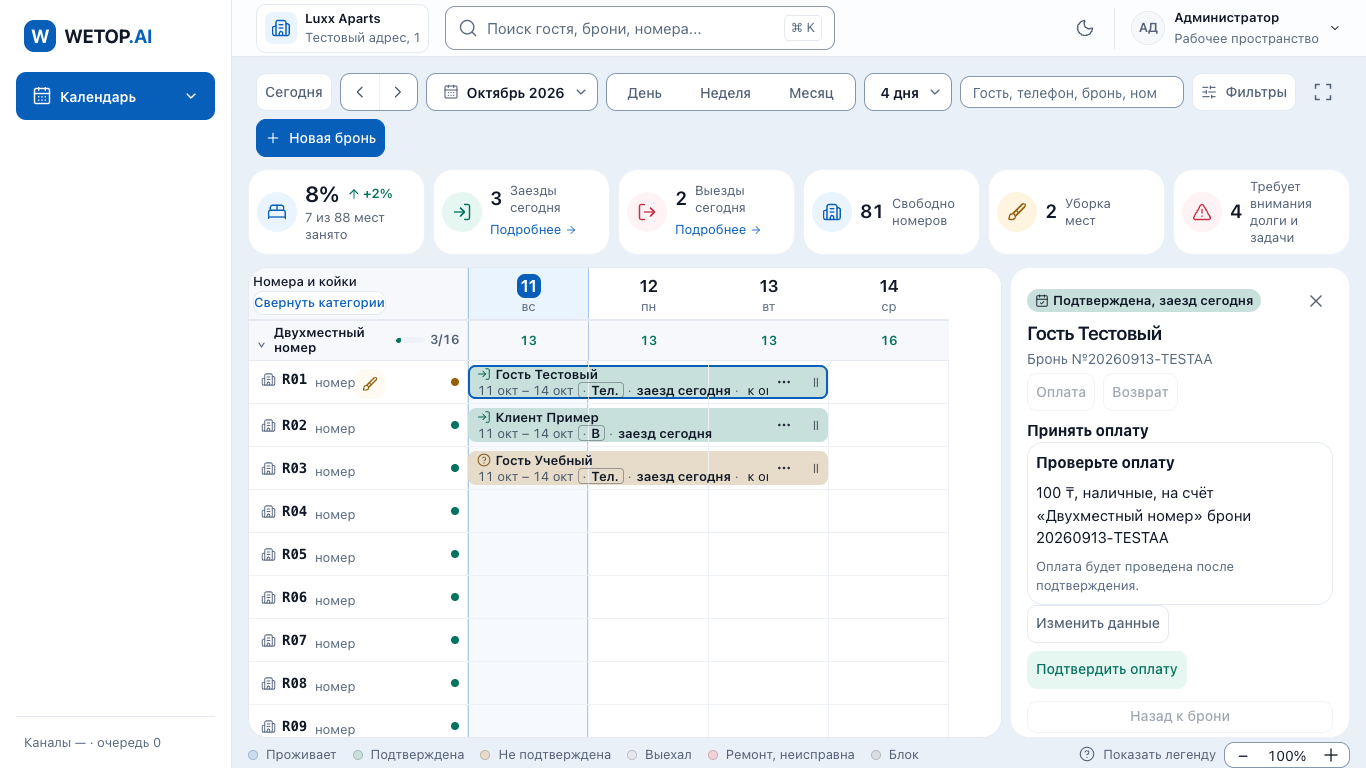
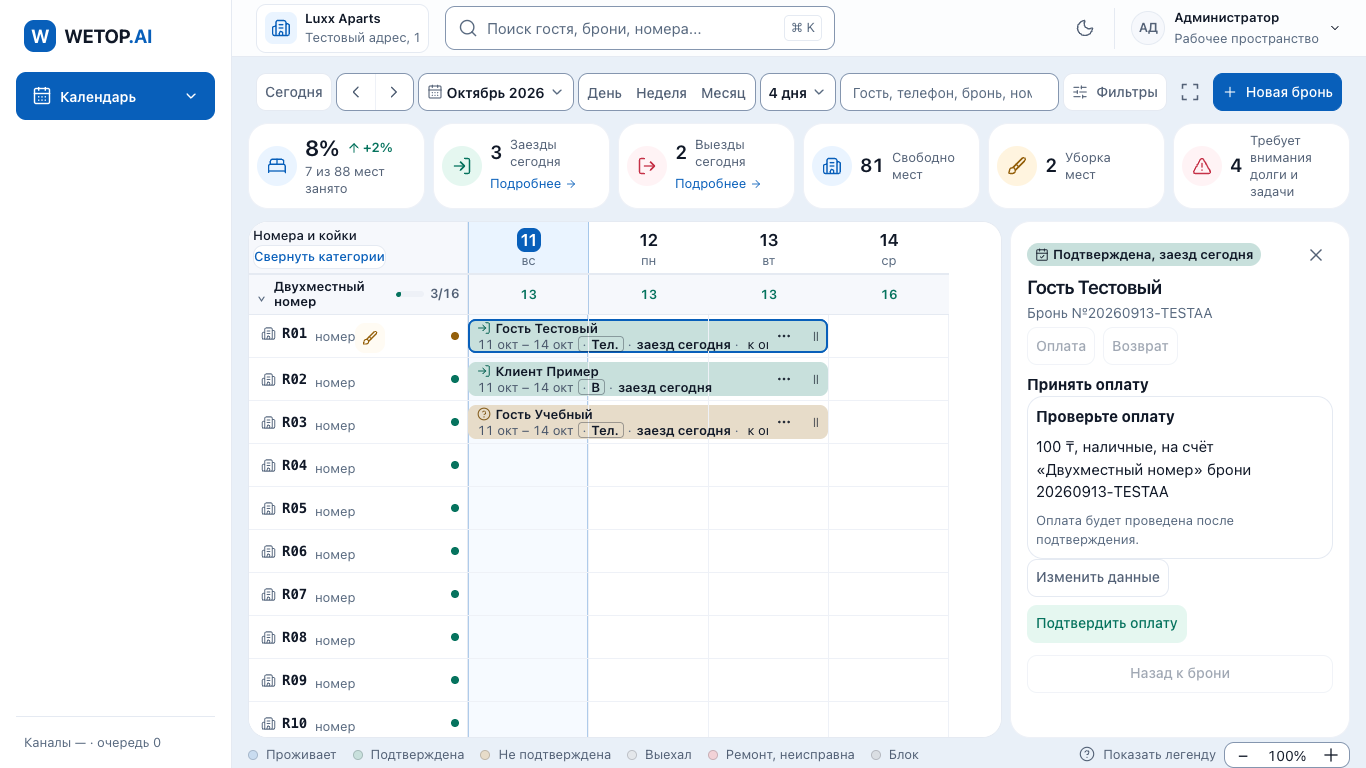
fix(calendar): fit notebook controls and month and verify confirmations

diff --git a/tests/ui/booking-price-nights.spec.ts b/tests/ui/booking-price-nights.spec.ts
@@ -25,37 +25,41 @@ test('форма брони: детализация цены по дням, су
   await expect(form.getByTestId('price-by-night-sum')).toContainText('средняя стоимость ночи');
 });
 
-test('календарь: одна полоса управления и шесть карточек под ней, сетка начинается выше', async ({
-  page,
-}) => {
-  await page.setViewportSize({ width: 1440, height: 900 });
-  await page.goto('/chessboard');
-  const panel = page.getByRole('group', { name: 'Сегодня на объекте' });
-  await expect(panel).toBeVisible();
-  const p = (await panel.boundingBox())!;
-  const bar = (await page.locator('.board-toolbar').boundingBox())!;
-  const grid = (await page.locator('.board-wrap').boundingBox())!;
-  // образец владельца (09.10): полоса «Сегодня ‹ › период масштаб длина поиск Фильтры Новая бронь» одной
-  // строкой, под ней шесть карточек в один ряд, затем сетка
-  expect(bar.height).toBeLessThanOrEqual(56);
-  expect(bar.y + bar.height).toBeLessThanOrEqual(p.y + 1);
-  expect(p.height).toBeLessThanOrEqual(96);
-  expect(p.y + p.height).toBeLessThanOrEqual(grid.y + 1);
-  expect(grid.y).toBeLessThanOrEqual(260);
-  const tops = await panel
-    .locator('.board-kpi')
-    .evaluateAll((els) => els.map((e) => Math.round(e.getBoundingClientRect().top)));
-  expect(tops).toHaveLength(6);
-  expect(new Set(tops).size).toBe(1);
-  // все шесть элементов полосы на одной линии
-  const barTops = await page
-    .locator('.board-toolbar')
-    .locator(
-      ':scope > .board-nav > *, :scope > .board-search, :scope > .board-filters-open, :scope > .board-new',
-    )
-    .evaluateAll((els) => els.map((e) => Math.round(e.getBoundingClientRect().top / 8)));
-  expect(new Set(barTops).size).toBe(1);
-  await expect(panel.getByTestId('day-free')).toBeVisible();
-  await expect(panel.getByTestId('day-units')).toHaveCount(0);
-  await page.screenshot({ path: 'reports/calendar-2026-10-02/header-compact-1440.png' });
-});
+for (const width of [1280, 1366, 1440]) {
+  test(`календарь ${width}px: одна полоса управления и шесть карточек под ней, сетка начинается выше`, async ({
+    page,
+  }) => {
+    await page.setViewportSize({ width, height: 900 });
+    await page.goto('/chessboard');
+    const panel = page.getByRole('group', { name: 'Сегодня на объекте' });
+    await expect(panel).toBeVisible();
+    const p = (await panel.boundingBox())!;
+    const bar = (await page.locator('.board-toolbar').boundingBox())!;
+    const grid = (await page.locator('.board-wrap').boundingBox())!;
+    // образец владельца (09.10): полоса «Сегодня ‹ › период масштаб длина поиск Фильтры Новая бронь» одной
+    // строкой, под ней шесть карточек в один ряд, затем сетка
+    expect(bar.height).toBeLessThanOrEqual(56);
+    expect(bar.y + bar.height).toBeLessThanOrEqual(p.y + 1);
+    expect(p.height).toBeLessThanOrEqual(96);
+    expect(p.y + p.height).toBeLessThanOrEqual(grid.y + 1);
+    expect(grid.y).toBeLessThanOrEqual(260);
+    const tops = await panel
+      .locator('.board-kpi')
+      .evaluateAll((els) => els.map((e) => Math.round(e.getBoundingClientRect().top)));
+    expect(tops).toHaveLength(6);
+    expect(new Set(tops).size).toBe(1);
+    // все шесть элементов полосы на одной линии
+    const barTops = await page
+      .locator('.board-toolbar')
+      .locator(
+        ':scope > .board-nav > *, :scope > .board-search, :scope > .board-filters-open, :scope > .board-new',
+      )
+      .evaluateAll((els) => els.map((e) => Math.round(e.getBoundingClientRect().top / 8)));
+    expect(new Set(barTops).size).toBe(1);
+    await expect(panel.getByTestId('day-free')).toBeVisible();
+    await expect(panel.getByTestId('day-units')).toHaveCount(0);
+    await page.screenshot({
+      path: `reports/calendar-confirmations-2026-10-08/header-${width}.png`,
+    });
+  });
+}

diff --git a/tests/ui/owner-dashboard-interactions.spec.ts b/tests/ui/owner-dashboard-interactions.spec.ts
@@ -65,20 +65,26 @@ test('slow inventory keeps daily events usable and shows a stable loading card',
 }) => {
   await page.setViewportSize({ width: 390, height: 844 });
   await page.goto('/finance');
-  const ready = await page
-    .getByRole('region', { name: 'Загрузка и операционные показатели' })
-    .boundingBox();
+  const readyCard = page.getByRole('region', { name: 'Загрузка и операционные показатели' });
+  await expect(readyCard).toBeVisible();
+  const ready = await readyCard.boundingBox();
   await request.post(`${FIXTURE_API}/__test/control`, {
     data: { delayPath: '/chessboard', delayMs: 6000 },
   });
   await page.goto('/finance', { waitUntil: 'commit' });
+  await expect(page.getByTestId('owner-dashboard')).toBeVisible();
   const loading = page.getByRole('status', { name: 'Загружаем загрузку…', exact: true });
   await expect(loading).toBeVisible({ timeout: 2000 });
   // слот карточки измеряем сам по себе: заглушку может успеть сменить настоящая карточка
-  const slot = page.locator('.owner-load').first();
-  await expect.poll(async () => (await slot.boundingBox())?.height ?? null).not.toBeNull();
-  const box = await slot.boundingBox();
-  expect(Math.abs(box!.height - ready!.height)).toBeLessThan(24);
+  const slot = page.locator('.owner-load:visible').first();
+  let loadingHeight: number | null = null;
+  await expect
+    .poll(async () => {
+      loadingHeight = (await slot.boundingBox())?.height ?? null;
+      return loadingHeight;
+    })
+    .not.toBeNull();
+  expect(Math.abs(loadingHeight! - ready!.height)).toBeLessThan(24);
   await expect(page.getByRole('region', { name: 'Сегодня', exact: true })).toBeVisible({
     timeout: 2000,
   });

diff --git a/apps/web/src/app/chessboard/board.css b/apps/web/src/app/chessboard/board.css
@@ -3223,7 +3223,7 @@
   .calendar-shell[data-expanded='true'] > .calendar-page {
     position: fixed;
     inset: 0;
-    z-index: 120;
+    z-index: var(--layer-overlay);
     background: var(--bg);
     height: 100dvh;
   }
@@ -3266,6 +3266,7 @@
 
 @layer sections {
   .calendar-shell .calendar-page {
+    container: calendar-screen / inline-size;
     gap: var(--space-1);
   }
   .calendar-shell .calendar-page .board-footer {
@@ -3291,8 +3292,8 @@
       column-gap: var(--space-1);
     }
     .calendar-shell .board-toolbar .board-search {
-      flex: 1 1 140px;
-      min-width: 140px;
+      flex: 1 1 100px;
+      min-width: 100px;
     }
   }
   .calendar-shell .board-stage > .board-wrap:has(.board--month) {
@@ -3300,6 +3301,12 @@
   }
   .calendar-day-summary {
     width: 232px;
+  }
+  /* Все 31 даты важнее повторной сводки: 888px сетки, 232px сводки и отступы. */
+  @container calendar-screen (max-width: 1160px) {
+    .board-stage:has(.board--month) .calendar-day-summary {
+      display: none;
+    }
   }
   @media (min-width: 601px) {
     .calendar-shell .board-toolbar .board-search .inp {

diff --git a/apps/web/src/app/chessboard/board-grid.tsx b/apps/web/src/app/chessboard/board-grid.tsx
@@ -1168,11 +1168,7 @@ export function ChessboardGrid({
                           }
                         >
                           <span className="board-group-bar" aria-hidden="true">
-                            <span
-                              style={{
-                                width: loadPct(g.code),
-                              }} /* slop-allow: inline-style доля занятых мест категории из данных */
-                            />
+                            <span style={{ width: loadPct(g.code) }} /* slop-allow: inline-style доля занятых мест категории из данных */ />
                           </span>
                           <span className="board-group-ratio">
                             {groupLoad(g.code)

diff --git a/reports/calendar-confirmations-2026-10-08/README.md b/reports/calendar-confirmations-2026-10-08/README.md
@@ -54,3 +54,29 @@
 Повторный полный сквозной прогон на собственном PostgreSQL 16 (127.0.0.1:5497, отдельные API/web 3498/3497): 26/26, включая schema guard, реальный вход, сумму штрафа, неизменное число гостей, оплату/возврат/сторно, баланс, долг и полный день гостя. Никакая общая dev-база не используется. Дополнительные scoped unit: 21/21, root typecheck и scoped ESLint: exit 0. Исходные assertions балансов/штрафов/статусов не ослаблены, skipped/deleted tests не добавлялись.
 
 Повторная production-сборка web после исправления месячной ширины: exit 0. Готовится новый exact-SHA release-checks.
+
+
+## Проверка актуального интерфейса 11.10.2026
+
+Кандидат объединён с main ff174dba, сохранены ADR-154 (новая полоса управления, шесть показателей, цветовые статусы и панель справа) и исправления меню профиля. Обычная плотность остаётся стандартной, пользовательский выбор сохраняется. Сводка дня справа доступна до выбора брони.
+
+Первый расширенный браузерный набор на объединённом коде: 39 passed, 5 failed. Четыре проверки ожидали удалённое меню или скрытую подробную легенду; переход в редактор, число трёх действий и постоянная цветовая легенда проверяются непосредственно. Пятая выявила перенос полосы. Проверки геометрии сохранены и расширены на 1280/1366/1440.
+
+Оплата и возврат справа: 6/6 passed. Проверяются доступное подтверждение на ноутбуке, возврат на телефоне, отказ от черновика, успех оплаты при сбое повторного чтения, полный возврат без зависшей блокировки и защита при выборе другой брони. Отдельный тест свободной ячейки сначала красный: черновик закрывался без вопроса. Исправлена защита начала выделения и открытия свободной ячейки, итоговый повтор записывается ниже.
+
+Design guards сначала выявили новый литерал слоя и потерянное при форматировании пояснение геометрии. После исправления без ослабления baseline: 5 файлов, 61 тест, все passed. Scoped ESLint exit 0. Production API, schema, migrations и финансовые правила не имеют diff относительно актуального main.
+
+Read-only проверка сервера: deployed 12a6c3ba, web и API healthy. Встроенный браузер на app.wetop.ai/chessboard с пустым будущим периодом получает 401: для проверки внутри аккаунта запрошен обычный вход пользователя, пароль не запрашивался. Это не доказательство выкладки кандидата.
+
+
+Read-only сверка migration metadata 11.10: все 89 каталогов имеют завершённую запись. Новая относительно release миграция 83 уже применена, её checksum совпадает. У трёх исторических миграций 35/36/39 checksum отличается от текущего SQL; эти файлы кандидатом календаря не меняются. Никакие SQL-изменения или исправления журнала production не выполнялись. Если штатная выкладка потребует отметки о миграции 83, сначала повторно сверить её checksum с проверяемой вершиной.
+
+### Финальная проверка 11.10.2026
+
+Интегрированный браузерный прогон: 33/35 passed. Два RED касались переноса toolbar на 1280px и переполнения месяца на 114px. Исправлены flex-basis поиска и условие боковой сводки по ширине контейнера. Повторно подтверждены toolbar на 1280/1366/1440, все 31 даты на 768/812/1024/1280/1440/1920, смена периода и шесть сценариев оплаты/возврата/защиты ввода (11 passed).
+
+В текущем main CI 38124882506 отдельно обнаружена гонка измерения owner-load в потоковой странице finance. Локальный RED подтвердил проблему: элемент скрывается между poll и повторным boundingBox. Тест ждёт готовую карточку и сохраняет измерение видимого слота непосредственно из poll. Assertion разницы высот <24px и сроки видимости 2000ms сохранены; product-код финансов не изменяется.
+
+Workspace после контейнерного условия: 3/3 passed (сводка и закрепление, Escape и сохранение плотности, клавиатура и свободная ячейка). Исправленный slow-inventory: 1/1 passed; ожидание контейнера отделяет начальную загрузку маршрута от проверки локального placeholder, timeout 2000ms сохранён. Design guard: 18/18 passed, baseline не изменён.
+
+Итоговая production-сборка web: exit 0, root/API/web TypeScript и scoped ESLint: exit 0. Реальные browser readback и 26/26 сквозных на собственной PostgreSQL подтверждены выше; production-деньги для проверки не проводились.
